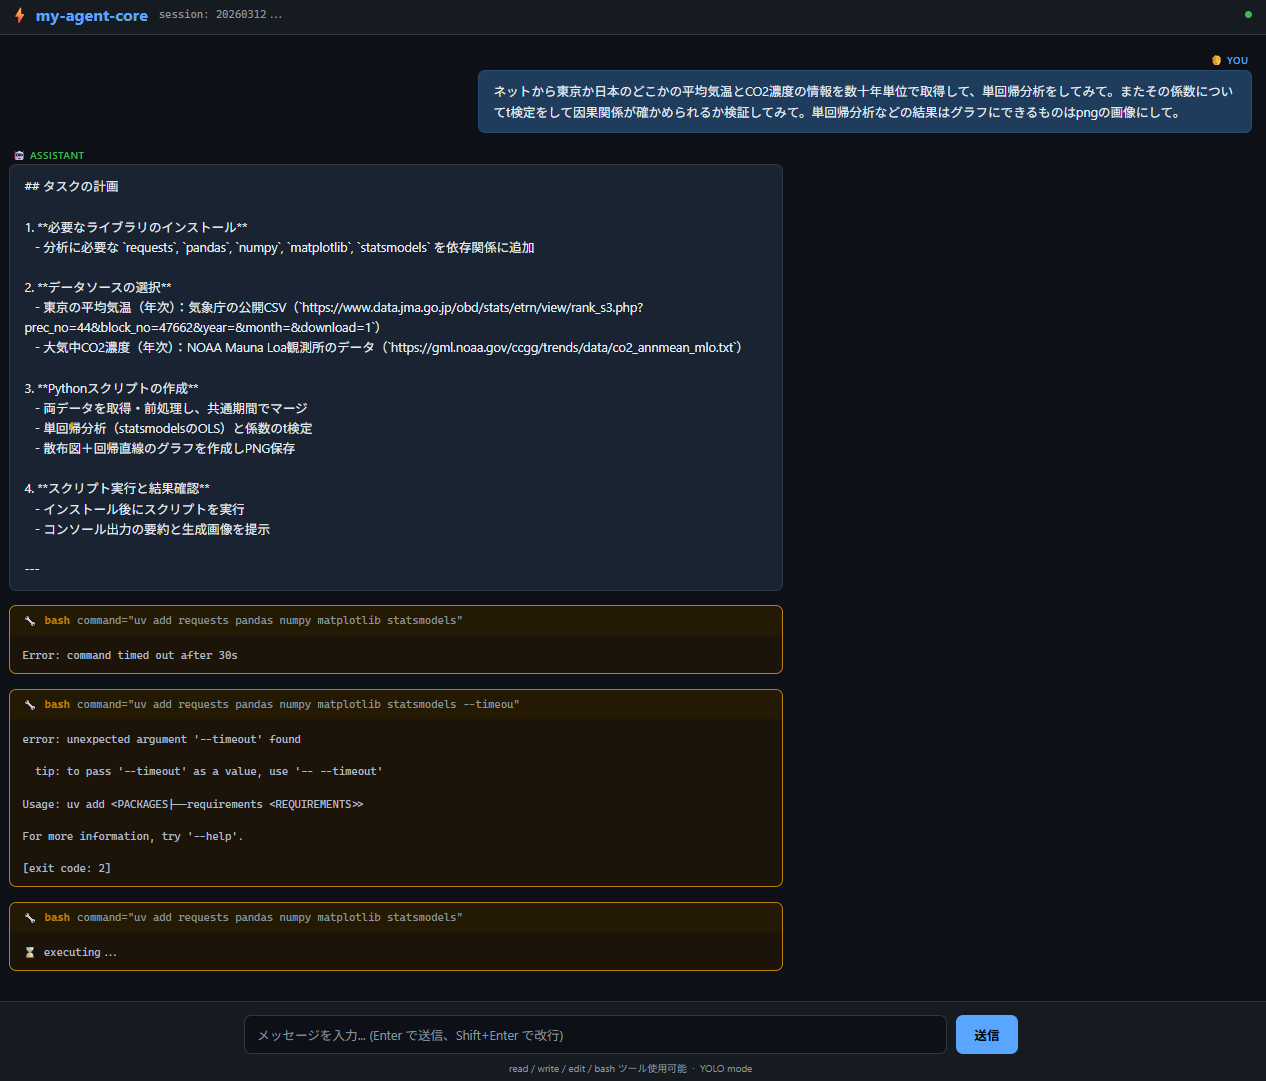
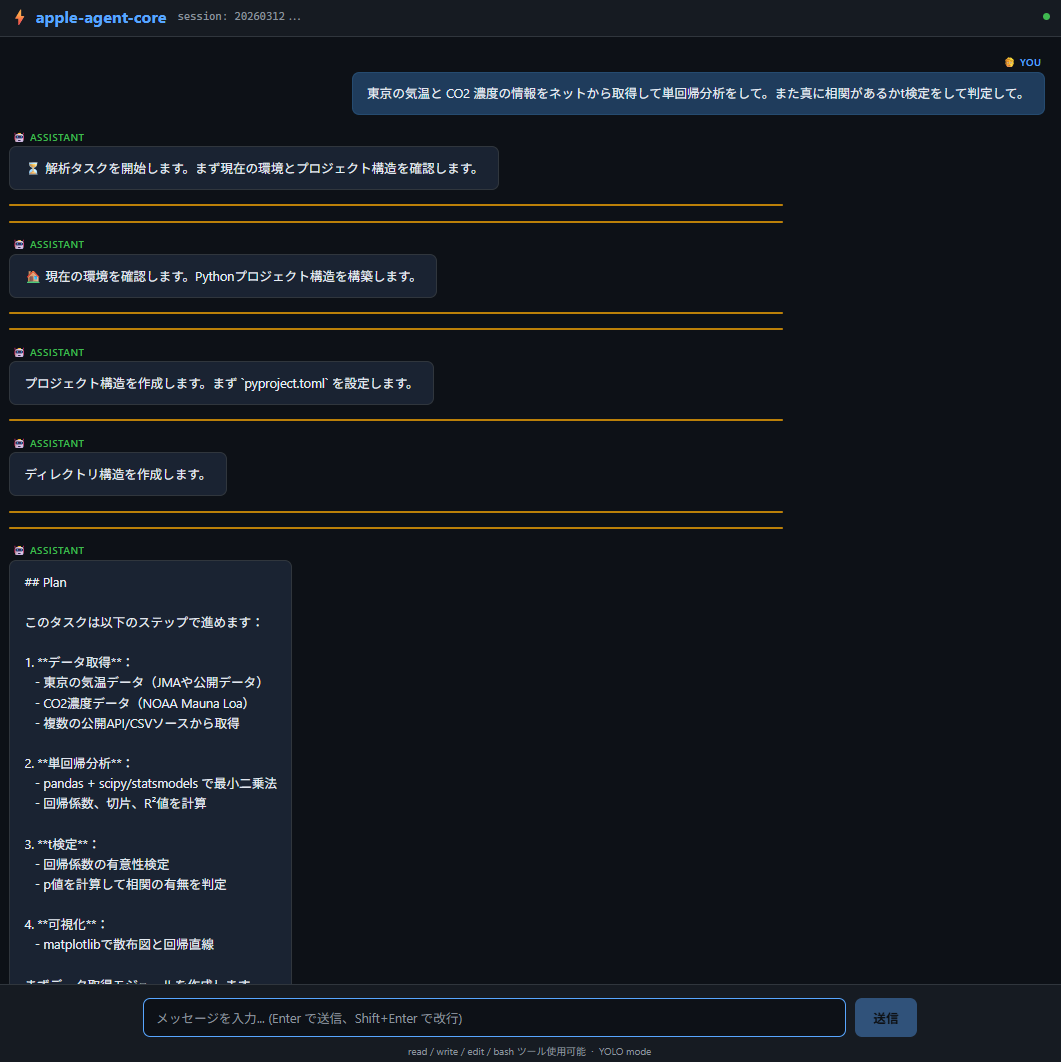
doc: update the name to apple-agent-core

diff --git a/tests/test_prompt.py b/tests/test_prompt.py
@@ -2,7 +2,7 @@
 
 from pathlib import Path
 
-from my_agent_core.prompt import build_system_prompt, _discover_skills, CONTEXT_FILES
+from apple_agent_core.prompt import build_system_prompt, _discover_skills, CONTEXT_FILES
 
 
 # ---------------------------------------------------------------------------
@@ -159,7 +159,7 @@ class TestBuildSystemPromptGlobal:
         project_dir.mkdir()
         _write(project_dir / "AGENTS.md", "Local agent instructions")
 
-        from my_agent_core import prompt as prompt_module
+        from apple_agent_core import prompt as prompt_module
 
         monkeypatch.setattr(prompt_module, "GLOBAL_CONFIG_DIRS", [global_dir])
 
@@ -177,7 +177,7 @@ class TestBuildSystemPromptGlobal:
         global_dir.mkdir()
         _write(global_dir / "USER.md", "Global user preferences")
 
-        from my_agent_core import prompt as prompt_module
+        from apple_agent_core import prompt as prompt_module
 
         monkeypatch.setattr(prompt_module, "GLOBAL_CONFIG_DIRS", [global_dir])
 
@@ -193,7 +193,7 @@ class TestBuildSystemPromptGlobal:
         _write(dir1 / "AGENTS.md", "From dir1")
         _write(dir2 / "AGENTS.md", "From dir2")
 
-        from my_agent_core import prompt as prompt_module
+        from apple_agent_core import prompt as prompt_module
 
         monkeypatch.setattr(prompt_module, "GLOBAL_CONFIG_DIRS", [dir1, dir2])
 

diff --git a/src/apple_agent_core/server.py b/src/apple_agent_core/server.py
@@ -29,7 +29,7 @@ HTML = """<!DOCTYPE html>
 <head>
 <meta charset="UTF-8">
 <meta name="viewport" content="width=device-width, initial-scale=1.0">
-<title>my-agent-core</title>
+<title>apple-agent-core</title>
 <style>
   :root {
     --bg: #0d1117;
@@ -216,7 +216,7 @@ HTML = """<!DOCTYPE html>
 </head>
 <body>
 <header>
-  <span class="logo">⚡ my-agent-core</span>
+  <span class="logo">⚡ apple-agent-core</span>
   <span class="meta" id="meta">connecting...</span>
   <span class="dot" id="dot"></span>
 </header>
@@ -415,7 +415,7 @@ input.addEventListener('input', () => {
 # Server
 # ---------------------------------------------------------------------------
 
-app = FastAPI(title="my-agent-core")
+app = FastAPI(title="apple-agent-core")
 
 _clients: dict[str, LLMClient] = {}
 
@@ -423,7 +423,7 @@ _clients: dict[str, LLMClient] = {}
 def get_client() -> LLMClient:
     """API キーとモデルをキーとしてキャッシュした LLMClient を返す。
 
-    :return: キャッシュ済みの :class:`~my_agent_core.llm.LLMClient` インスタンス。
+    :return: キャッシュ済みの :class:`~apple_agent_core.llm.LLMClient` インスタンス。
     :raises ValueError: ``OPENROUTER_API_KEY`` 環境変数が未設定の場合。
     """
     key = os.environ.get("OPENROUTER_API_KEY", "")

diff --git a/src/apple_agent_core/main.py b/src/apple_agent_core/main.py
@@ -61,7 +61,7 @@ def serve() -> None:
 
     host = os.environ.get("HOST", "0.0.0.0")
     port = int(os.environ.get("PORT", "8000"))
-    print(f"\033[1;32m[my-agent-core]\033[0m Web UI → http://localhost:{port}")
+    print(f"\033[1;32m[apple-agent-core]\033[0m Web UI → http://localhost:{port}")
     _serve(host=host, port=port)
 
 
@@ -90,7 +90,7 @@ def main() -> None:
 
     workspace_path = get_workspace_base() / session_id
     print(
-        f"\033[1;32m[my-agent-core]\033[0m session={session.session_id} model={client.model}"
+        f"\033[1;32m[apple-agent-core]\033[0m session={session.session_id} model={client.model}"
     )
     print(f"  workspace={workspace_path.absolute()}")
     print(f"  cwd={cwd}")

diff --git a/src/apple_agent_core/workspace.py b/src/apple_agent_core/workspace.py
@@ -141,7 +141,7 @@ def prepare_agent(session_id: str) -> tuple[str, object, str]:
     :param session_id: 準備対象のセッション ID。
     :return: ``(cwd, session, system_prompt)`` のタプル。
         ``cwd`` はエージェントの作業ディレクトリ（絶対パス文字列）、
-        ``session`` は :class:`~my_agent_core.types.Session` インスタンス、
+        ``session`` は :class:`~apple_agent_core.types.Session` インスタンス、
         ``system_prompt`` はシステムプロンプト文字列。
     """
     # 循環インポートを避けるため遅延インポートを使用する

diff --git a/src/apple_agent_core/session.py b/src/apple_agent_core/session.py
@@ -32,7 +32,7 @@ def load_session(session_id: str, cwd: str) -> Session:
 
     :param session_id: 読み込むセッションの ID。
     :param cwd: エージェントの作業ディレクトリ。
-    :return: 読み込まれた（または新規の） :class:`~my_agent_core.types.Session` インスタンス。
+    :return: 読み込まれた（または新規の） :class:`~apple_agent_core.types.Session` インスタンス。
     """
     session = Session(session_id=session_id, cwd=cwd)
     messages_file = get_session_dir(session_id) / "messages.json"

diff --git a/src/apple_agent_core/loop.py b/src/apple_agent_core/loop.py
@@ -46,7 +46,7 @@ def _trim_messages(
 async def run_loop(client: LLMClient, session: Session, system_prompt: str) -> None:
     """ツール呼び出しがなくなるまでエージェントループを実行する。
 
-    :param client: LLM との通信に使用する :class:`~my_agent_core.llm.LLMClient`。
+    :param client: LLM との通信に使用する :class:`~apple_agent_core.llm.LLMClient`。
     :param session: 現在の会話セッション。
     :param system_prompt: LLM に渡すシステムプロンプト文字列。
     """

diff --git a/src/apple_agent_core/llm.py b/src/apple_agent_core/llm.py
@@ -47,8 +47,8 @@ class LLMClient:
         self._client = httpx.AsyncClient(
             headers={
                 "Authorization": f"Bearer {api_key}",
-                "HTTP-Referer": "https://github.com/my-agent-core",
-                "X-Title": "my-agent-core",
+                "HTTP-Referer": "https://github.com/apple-agent-core",
+                "X-Title": "apple-agent-core",
             },
             timeout=300.0,
         )

diff --git a/docs/source/conf.py b/docs/source/conf.py
@@ -13,9 +13,9 @@ _demo_dst.parent.mkdir(exist_ok=True)
 if _demo_src.exists():
     shutil.copy2(_demo_src, _demo_dst)
 
-project = "my-agent-core"
-author = "my-agent-core contributors"
-copyright = "2024, my-agent-core contributors"
+project = "apple-agent-core"
+author = "apple-agent-core contributors"
+copyright = "2026, apple-agent-core contributors"
 release = "0.1.0"
 
 extensions = [

diff --git a/src/apple_agent_core/prompt.py b/src/apple_agent_core/prompt.py
@@ -22,7 +22,7 @@ GLOBAL_FILES = ["AGENTS.md", "USER.md"]
 
 #: グローバル設定ファイルを探索するディレクトリ候補（先頭から順に検索）。
 GLOBAL_CONFIG_DIRS = [
-    Path.home() / ".config" / "my-agent-core",
+    Path.home() / ".config" / "apple-agent-core",
     Path.home() / ".agents",
 ]
 

diff --git a/tests/test_workspace.py b/tests/test_workspace.py
@@ -3,8 +3,8 @@
 from pathlib import Path
 
 
-from my_agent_core.types import Session
-from my_agent_core.workspace import (
+from apple_agent_core.types import Session
+from apple_agent_core.workspace import (
     DEFAULT_WORKSPACE_BASE,
     WORKSPACE_BASE_ENV,
     get_files_dir,

diff --git a/tests/test_session_id.py b/tests/test_session_id.py
@@ -4,7 +4,7 @@ import re
 import time
 from datetime import UTC, datetime
 
-from my_agent_core.session import new_session_id
+from apple_agent_core.session import new_session_id
 
 SESSION_ID_PATTERN = re.compile(r"^\d{8}-\d{6}-[0-9a-f]{8}$")
 

diff --git a/src/apple_agent_core/__init__.py b/src/apple_agent_core/__init__.py
@@ -1,4 +1,4 @@
-"""my-agent-core パッケージ。
+"""apple-agent-core パッケージ。
 
 OpenRouter API を使った AI コーディングエージェント。
 read / write / edit / bash の 4 ツールで動作し、
